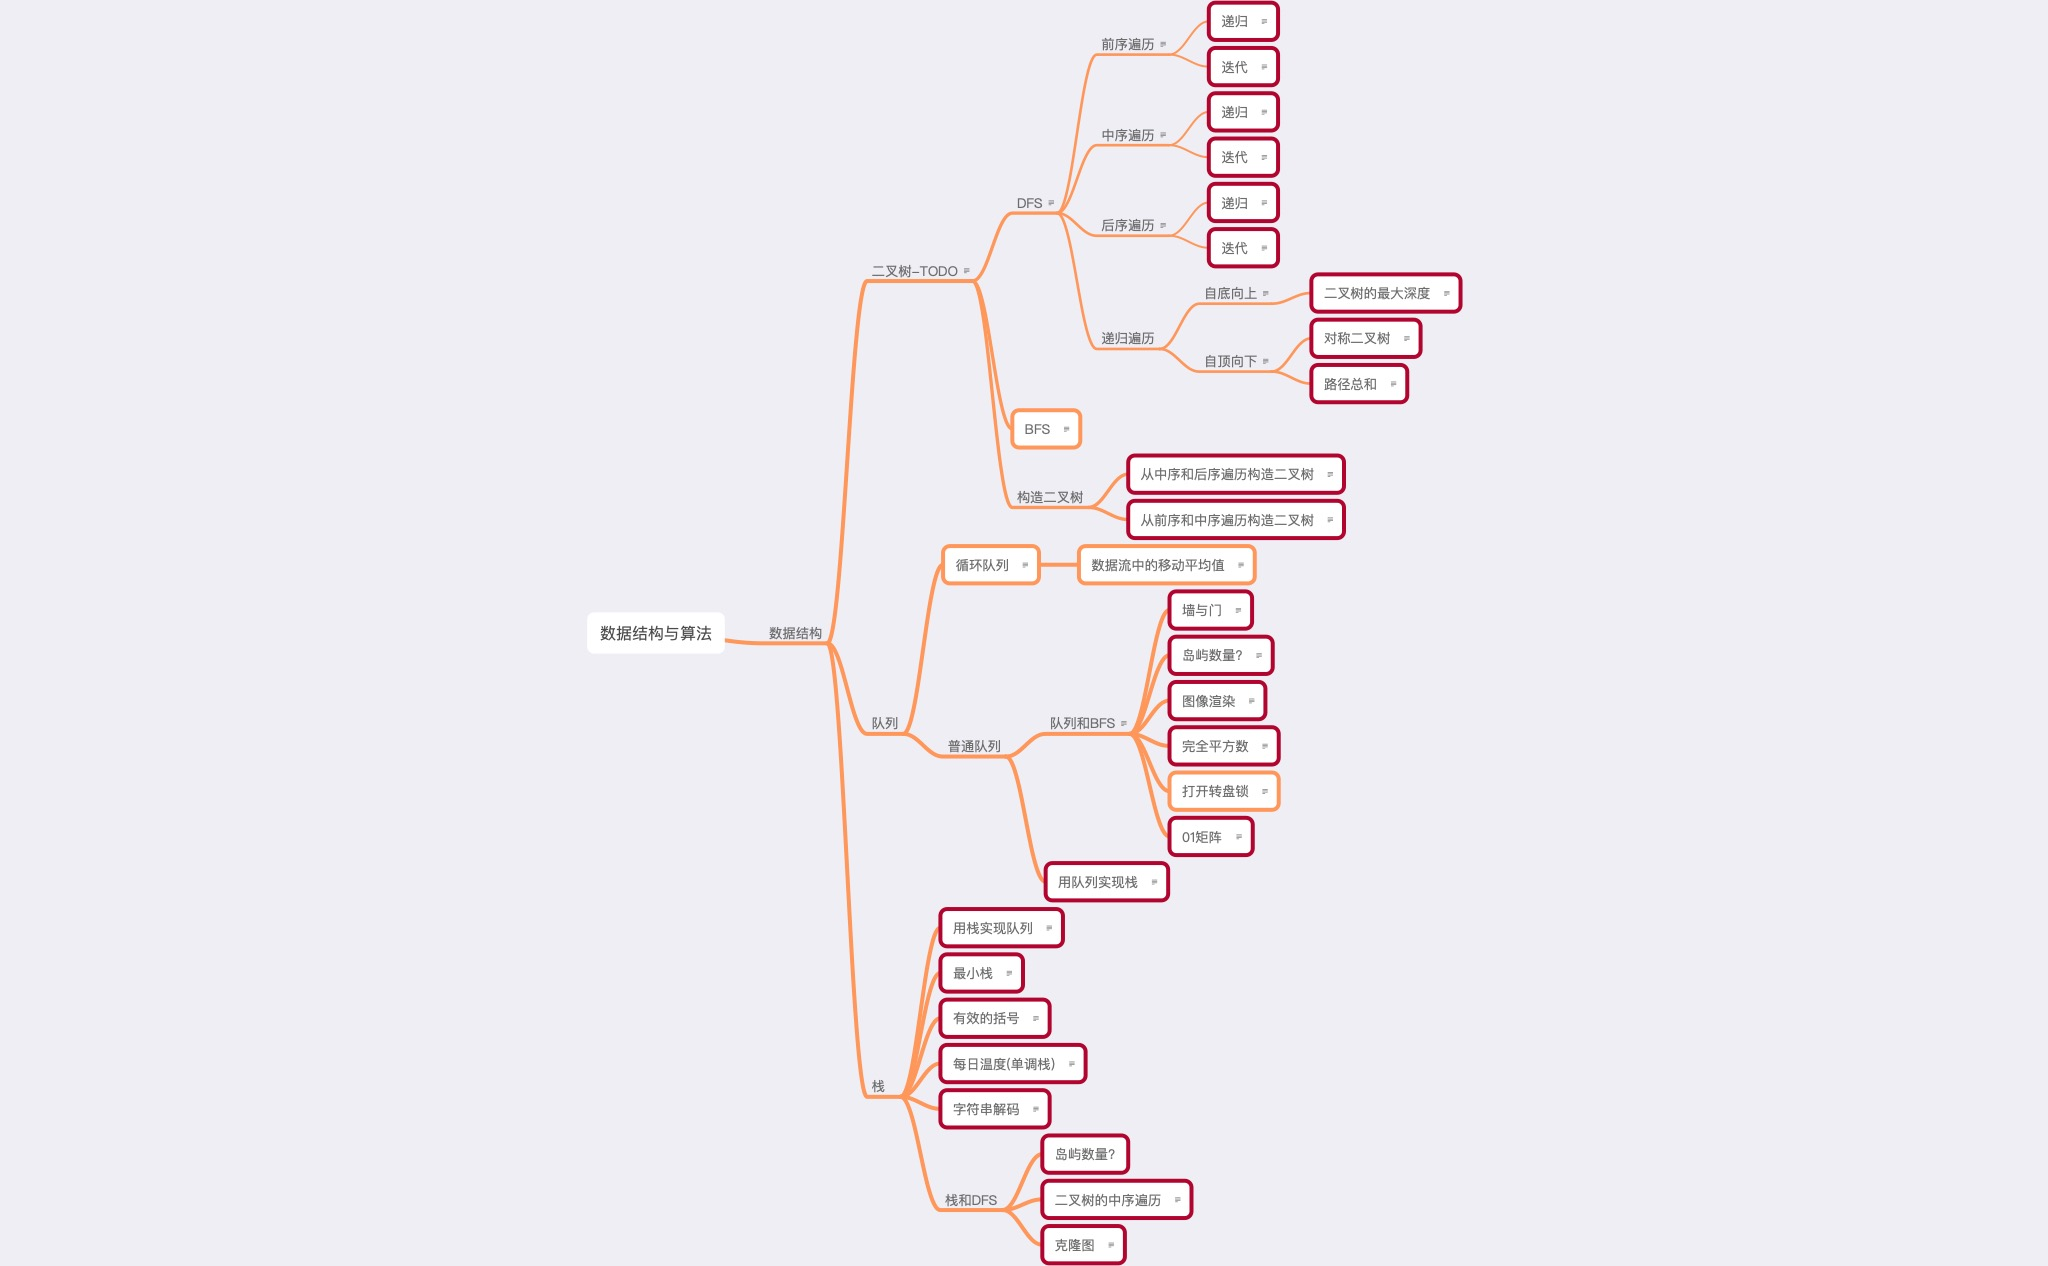
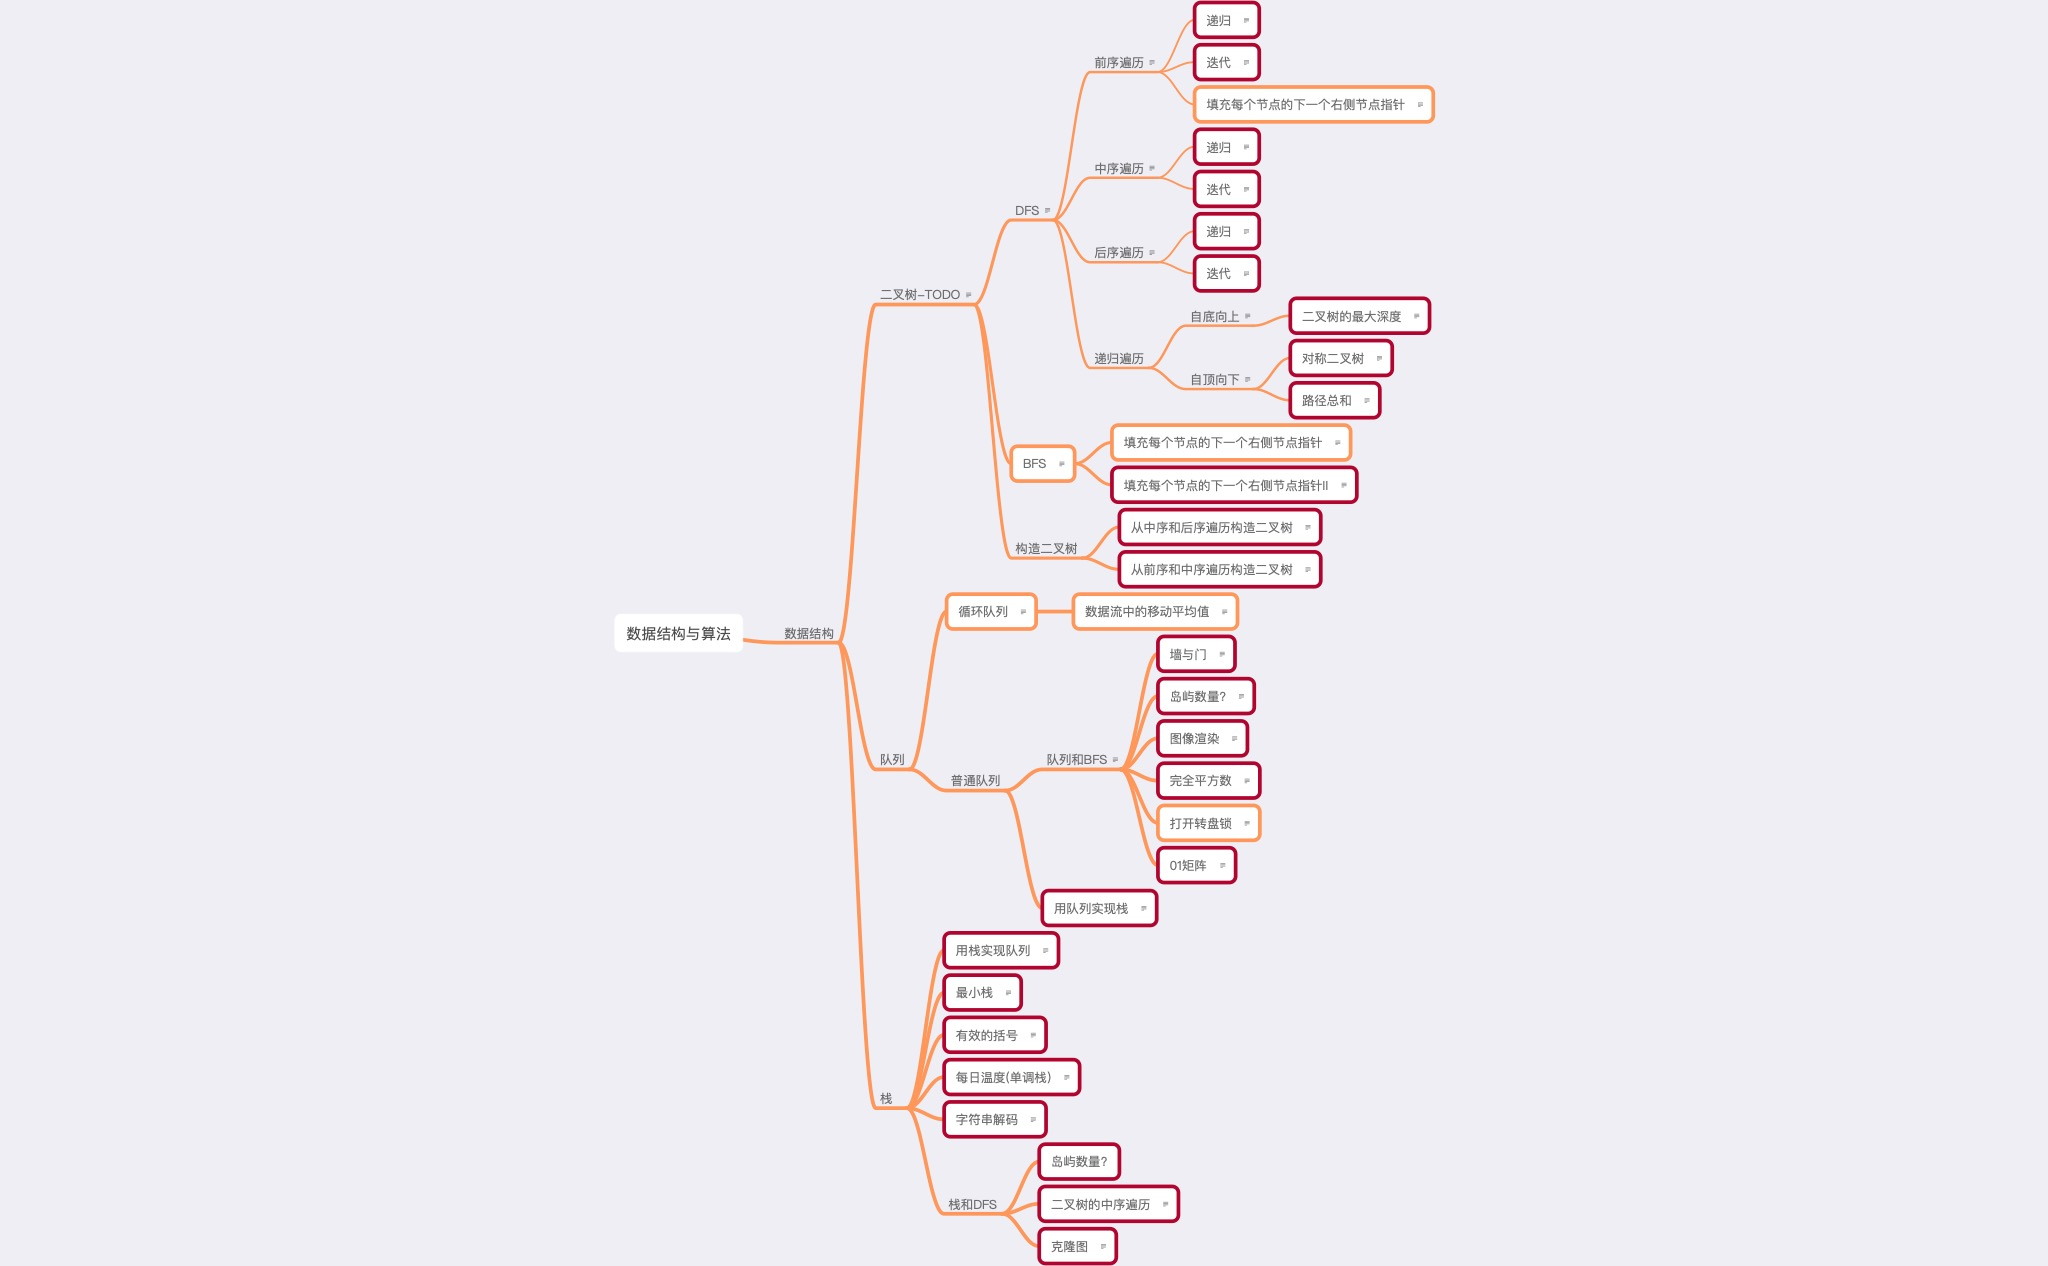
add 177

Changed region(s): [[0.2812, 0.0, 0.7188, 1.0]]

diff --git a/116/116-my.py b/116/116-my.py
@@ -1,0 +1,53 @@
+#!/usr/bin/env python
+# -*- coding: utf-8 -*-
+# ylgongPw @ 2020-02-29 10:57:23
+from __future__ import unicode_literals
+from __future__ import absolute_import
+
+# Definition for a Node.
+class Node:
+    def __init__(self, val: int = 0, left: 'Node' = None, right: 'Node' = None, next: 'Node' = None):
+        self.val = val
+        self.left = left
+        self.right = right
+        self.next = next
+
+class Solution:
+    def connect(self, root: 'Node') -> 'Node':
+        if not root:
+            return root
+        helper = [root]
+        vals = []
+
+        while helper:
+            sub = [] #按层级存储子节点
+            for node in helper:
+                if node.left:
+                    sub.append(node.left)
+                if node.right:
+                    sub.append(node.right)
+            #conn
+            i = 0
+            while i<(len(sub)-1):
+                sub[i].next = sub[i+1]
+                i += 1
+
+
+            helper = sub
+
+        return root
+
+if __name__ == '__main__':
+    t = Node(1)
+    t.left = Node(2)
+    t.right = Node(3)
+
+    t.left.left = Node(4)
+    t.left.right = Node(5)
+
+    t.right.left = Node(6)
+    t.right.right = Node(7)
+
+    S = Solution()
+    t = S.connect(t)
+    print (t.left.left.next.val)

diff --git a/117/117-my.py b/117/117-my.py
@@ -1,0 +1,50 @@
+#!/usr/bin/env python
+# -*- coding: utf-8 -*-
+# ylgongPw @ 2020-02-29 11:43:20
+
+# Definition for a Node.
+class Node:
+    def __init__(self, val: int = 0, left: 'Node' = None, right: 'Node' = None, next: 'Node' = None):
+        self.val = val
+        self.left = left
+        self.right = right
+        self.next = next
+
+class Solution:
+    def connect(self, root: 'Node') -> 'Node':
+        # pre.next 指向下一层最左节点
+        # cur 每一层从做往右增加next指针
+        ans = root
+        pre = Node(0)
+        cur = pre
+
+        while root:
+            if root.left:
+                cur.next = root.left
+                cur = cur.next
+            if root.right:
+                cur.next = root.right
+                cur = cur.next
+            root = root.next
+            # next level
+            if not root:
+                cur = pre
+                root = pre.next
+                # 设置为None，否则会无限循环
+                pre.next = None
+        return ans
+
+if __name__ == '__main__':
+    t = Node(1)
+    t.left = Node(2)
+    t.right = Node(3)
+
+    t.left.left = Node(4)
+    t.left.right = Node(5)
+
+    t.right.right = Node(7)
+
+    S = Solution()
+    t = S.connect(t)
+    print (t.left.right.next.val)
+

diff --git a/116/116-ans.py b/116/116-ans.py
@@ -1,0 +1,46 @@
+#!/usr/bin/env python
+# -*- coding: utf-8 -*-
+# ylgongPw @ 2020-02-29 11:43:20
+from __future__ import unicode_literals
+from __future__ import absolute_import
+
+class Node:
+    def __init__(self, val: int = 0, left: 'Node' = None, right: 'Node' = None, next: 'Node' = None):
+        self.val = val
+        self.left = left
+        self.right = right
+        self.next = next
+
+class Solution:
+    def connect(self, root: 'Node') -> 'Node':
+        if not root:
+            return root
+
+        pre = root
+        while pre.left:
+            tmp = pre
+            while tmp:
+                tmp.left.next = tmp.right
+                if tmp.next:
+                    tmp.right.next = tmp.next.left
+                tmp = tmp.next
+
+            pre = pre.left
+
+        return root
+
+if __name__ == '__main__':
+    t = Node(1)
+    t.left = Node(2)
+    t.right = Node(3)
+
+    t.left.left = Node(4)
+    t.left.right = Node(5)
+
+    t.right.left = Node(6)
+    t.right.right = Node(7)
+
+    S = Solution()
+    t = S.connect(t)
+    print (t.left.left.next.val)
+

diff --git a/116/116-ans1.py b/116/116-ans1.py
@@ -1,0 +1,43 @@
+#!/usr/bin/env python
+# -*- coding: utf-8 -*-
+# ylgongPw @ 2020-02-29 11:43:20
+
+class Node:
+    def __init__(self, val: int = 0, left: 'Node' = None, right: 'Node' = None, next: 'Node' = None):
+        self.val = val
+        self.left = left
+        self.right = right
+        self.next = next
+
+class Solution:
+    def connect(self, root: 'Node') -> 'Node':
+        """
+        前序递归遍历
+        """
+        if not root or not root.left:
+            return root
+
+        root.left.next = root.right
+        if root.next:
+            root.right.next = root.next.left
+
+        self.connect(root.left)
+        self.connect(root.right)
+
+        return root
+
+if __name__ == '__main__':
+    t = Node(1)
+    t.left = Node(2)
+    t.right = Node(3)
+
+    t.left.left = Node(4)
+    t.left.right = Node(5)
+
+    t.right.left = Node(6)
+    t.right.right = Node(7)
+
+    S = Solution()
+    t = S.connect(t)
+    print (t.left.right.next.val)
+

diff --git a/117/117.md b/117/117.md
@@ -1,0 +1,38 @@
+# 题目描述 
+
+```
+给定一个二叉树
+
+struct Node {
+  int val;
+  Node *left;
+  Node *right;
+  Node *next;
+}
+填充它的每个 next 指针，让这个指针指向其下一个右侧节点。如果找不到下一个右侧节点，则将 next 指针设置为 NULL。
+
+初始状态下，所有 next 指针都被设置为 NULL。
+
+ 
+
+进阶：
+
+你只能使用常量级额外空间。
+使用递归解题也符合要求，本题中递归程序占用的栈空间不算做额外的空间复杂度。
+
+
+来源：力扣（LeetCode）
+链接：https://leetcode-cn.com/problems/populating-next-right-pointers-in-each-node-ii
+著作权归领扣网络所有。商业转载请联系官方授权，非商业转载请注明出处。
+```
+
+# 解题思路
+* 该树不是一个完美二叉树
+* 使用BFS层序遍历。因为不是完美二叉树
+* 使用一个 Node(0)节点,在每一层的最前面,不断移动Node节点,连接next
+* 遍历完一层后，使用从Node节点的原始位置，移动当前节点到下一层
+
+## 解题代码
+[填充每个节点的下一个右侧节点指针II](117-my.py)
+
+ 

diff --git a/116/116.md b/116/116.md
@@ -1,0 +1,37 @@
+# 题目描述 
+```
+给定一个完美二叉树，其所有叶子节点都在同一层，每个父节点都有两个子节点。二叉树定义如下：
+
+struct Node {
+  int val;
+  Node *left;
+  Node *right;
+  Node *next;
+}
+填充它的每个 next 指针，让这个指针指向其下一个右侧节点。如果找不到下一个右侧节点，则将 next 指针设置为 NULL。
+
+初始状态下，所有 next 指针都被设置为 NULL。
+```
+ 
+
+
+# 解题思路
+* BFS层序遍历，使用队列存储每一层的节点。
+* 每一层遍历完，进行next连接
+* 但需要使用额外的空间
+
+
+
+## 解题代码
+[填充每个节点的下一个右侧节点指针](116-my.py)
+
+
+# 最优思路
+* 使用DFS 前序遍历。同一层的left 连接right。
+* 遇到同一层的 left 有next的 。连接下一层的节点
+
+## 解题代码
+
+[填充每个节点的下一个右侧节点指针](116-ans1.py)
+
+ 

diff --git a/summary.md b/summary.md
@@ -24,6 +24,8 @@
 | 105-从前序和中序遍历构造二叉树 | 中等 | [从前序和中序遍历构造二叉树](105/105.md) | Tree |
 | 106-从中序和后序遍历构造二叉树 | 中等 | [从中序和后序遍历构造二叉树](106/106.md) | Tree |
 | 112-路径总和 | 简单 | [路径总和](112/112.md) | Tree |
+| 116-填充每个节点的下一个右侧节点指针 | 中等| [填充每个节点的下一个右侧节点指针](116/116.md) | Tree |
+| 117-填充每个节点的下一个右侧节点指针II | 中等| [填充每个节点的下一个右侧节点指针II](117/117.md) | Tree |
 | 121-买卖股票最佳时机 | 简单 | [买卖股票最佳时机](121/121.md) | high |
 | 133-克隆图 | 中等 | [克隆图](133/133.md) | DFS |
 | 141-环形链表 | 简单 | [环形链表](141/141.md) |  |
